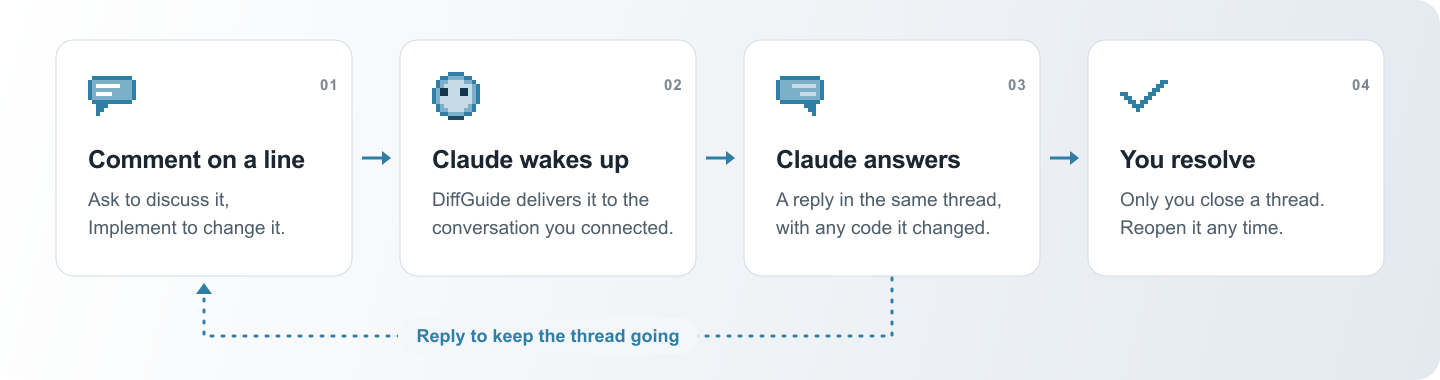
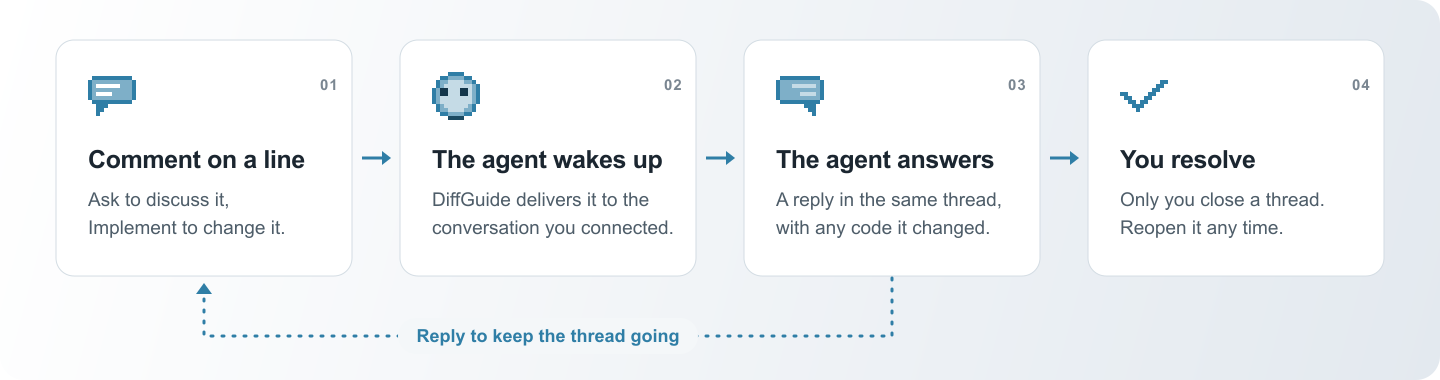
docs(readme): name the agent generically and drop the retired badge

Changed region(s): [[0.5312, 0.3763, 0.6875, 0.4632], [0.2812, 0.4053, 0.4688, 0.4632]]

diff --git a/README.md b/README.md
@@ -5,13 +5,12 @@
 </p>
 
 <p align="center">
-  <a href="https://marketplace.visualstudio.com/items?itemName=kaiketsu-labs.diffguide"><img alt="VS Code Marketplace" src="https://img.shields.io/visual-studio-marketplace/v/kaiketsu-labs.diffguide?label=Marketplace&color=2F7EA6"></a>
   <img alt="VS Code 1.100+" src="https://img.shields.io/badge/VS%20Code-1.100%2B-2F7EA6">
-  <img alt="Claude Code" src="https://img.shields.io/badge/Claude%20Code-terminal-2F7EA6">
+  <img alt="Agent: Claude Code" src="https://img.shields.io/badge/agent-Claude%20Code-2F7EA6">
   <img alt="Status: preview" src="https://img.shields.io/badge/status-preview-9AA7B3">
 </p>
 
-DiffGuide is a review page in VS Code for your local changes and your GitHub pull requests. Comment on a line, and your Claude Code conversation answers in the same thread or changes the code. You decide what to accept and when the review is done.
+DiffGuide is a review page in VS Code for your local changes and your GitHub pull requests. Comment on a line, and your coding agent answers in the same thread or changes the code. You decide what to accept and when the review is done.
 
 <p align="center">
   <a href="https://marketplace.visualstudio.com/items?itemName=kaiketsu-labs.diffguide">Install</a> ·
@@ -24,20 +23,20 @@ DiffGuide is a review page in VS Code for your local changes and your GitHub pul
 
 | | |
 | --- | --- |
-| <img src="docs/media/icons/comment.png" width="36" alt=""> | **Comment at the line.** Click a line on the review page, choose **Ask** to discuss it or **Implement** to change it. Claude replies in the thread; you resolve it. |
-| <img src="docs/media/icons/guide.png" width="36" alt=""> | **Guided PR review.** Claude orders a PR's changes into steps by severity and explains each one. Tick **Viewed** on every step and you have covered the whole PR. |
-| <img src="docs/media/icons/review.png" width="36" alt=""> | **Code review agents.** **Review** runs correctness, design, security, performance and test agents. Findings arrive as threads, and Claude can re-check them against the current code. |
-| <img src="docs/media/icons/pr.png" width="36" alt=""> | **The whole GitHub PR.** Conversation, commits since your last review, checks and the merge box on one page. Claude drafts your replies to GitHub comments. |
-| <img src="docs/media/icons/sidebar.png" width="36" alt=""> | **Pull Requests sidebar.** Your PRs and review requests per repository, colored by unpushed commits and uncommitted edits. The orb marks rows where Claude is working. |
-| <img src="docs/media/icons/linked.png" width="36" alt=""> | **Linked changes.** A PR that needs changes in other repositories lists them, with the branch Claude made and **Push and open draft PR**. |
+| <img src="docs/media/icons/comment.png" width="36" alt=""> | **Comment at the line.** Click a line on the review page, choose **Ask** to discuss it or **Implement** to change it. The agent replies in the thread; you resolve it. |
+| <img src="docs/media/icons/guide.png" width="36" alt=""> | **Guided PR review.** The agent orders a PR's changes into steps by severity and explains each one. Tick **Viewed** on every step and you have covered the whole PR. |
+| <img src="docs/media/icons/review.png" width="36" alt=""> | **Code review agents.** **Review** runs correctness, design, security, performance and test agents. Findings arrive as threads, and the agent can re-check them against the current code. |
+| <img src="docs/media/icons/pr.png" width="36" alt=""> | **The whole GitHub PR.** Conversation, commits since your last review, checks and the merge box on one page. The agent drafts your replies to GitHub comments. |
+| <img src="docs/media/icons/sidebar.png" width="36" alt=""> | **Pull Requests sidebar.** Your PRs and review requests per repository, colored by unpushed commits and uncommitted edits. The orb marks rows where the agent is working. |
+| <img src="docs/media/icons/linked.png" width="36" alt=""> | **Linked changes.** A PR that needs changes in other repositories lists them, with the branch the agent made and **Push and open draft PR**. |
 
 ## How it works
 
 <p align="center">
-  <img src="docs/media/review-loop.png" alt="The review loop: comment on a line, Claude wakes up, Claude answers in the thread, you resolve or reply to keep going." width="100%">
+  <img src="docs/media/review-loop.png" alt="The review loop: comment on a line, the agent wakes up, the agent answers in the thread, you resolve or reply to keep going." width="100%">
 </p>
 
-A small local helper waits for your comment and wakes the Claude conversation you connected. Claude does not poll for comments. It answers through review tools that put the reply back in the thread. Threads stay in VS Code's workspace storage. [Architecture →](https://github.com/kaiketsu-labs/diffguide/blob/main/docs/HOW-IT-WORKS.md)
+A small local helper waits for your comment and wakes the agent conversation you connected. The agent does not poll for comments. It answers through review tools that put the reply back in the thread. Threads stay in VS Code's workspace storage. [Architecture →](https://github.com/kaiketsu-labs/diffguide/blob/main/docs/HOW-IT-WORKS.md)
 
 ## Install
 
@@ -51,7 +50,7 @@ Each [GitHub release](https://github.com/kaiketsu-labs/diffguide/releases) also 
 
 Then open a trusted local Git repository, click **Review local changes** in the DiffGuide **Local** view, and **Connect Claude** on the review page. Start a new conversation, resume a saved one, or connect the one already running in your terminal.
 
-Requires VS Code 1.100+, Node.js 20+, Git and an authenticated Claude Code. macOS is verified; Linux is unverified; automatic connection does not work on Windows yet. [Setup and troubleshooting →](https://github.com/kaiketsu-labs/diffguide/blob/main/docs/INSTALL.md)
+Requires VS Code 1.100+, Node.js 20+, Git and an agent. Claude Code is the supported agent today. macOS is verified; Linux is unverified; automatic connection does not work on Windows yet. [Setup and troubleshooting →](https://github.com/kaiketsu-labs/diffguide/blob/main/docs/INSTALL.md)
 
 Coming from Pair Review? [Move your settings →](https://github.com/kaiketsu-labs/diffguide/blob/main/docs/INSTALL.md#moving-from-pair-review)
 
